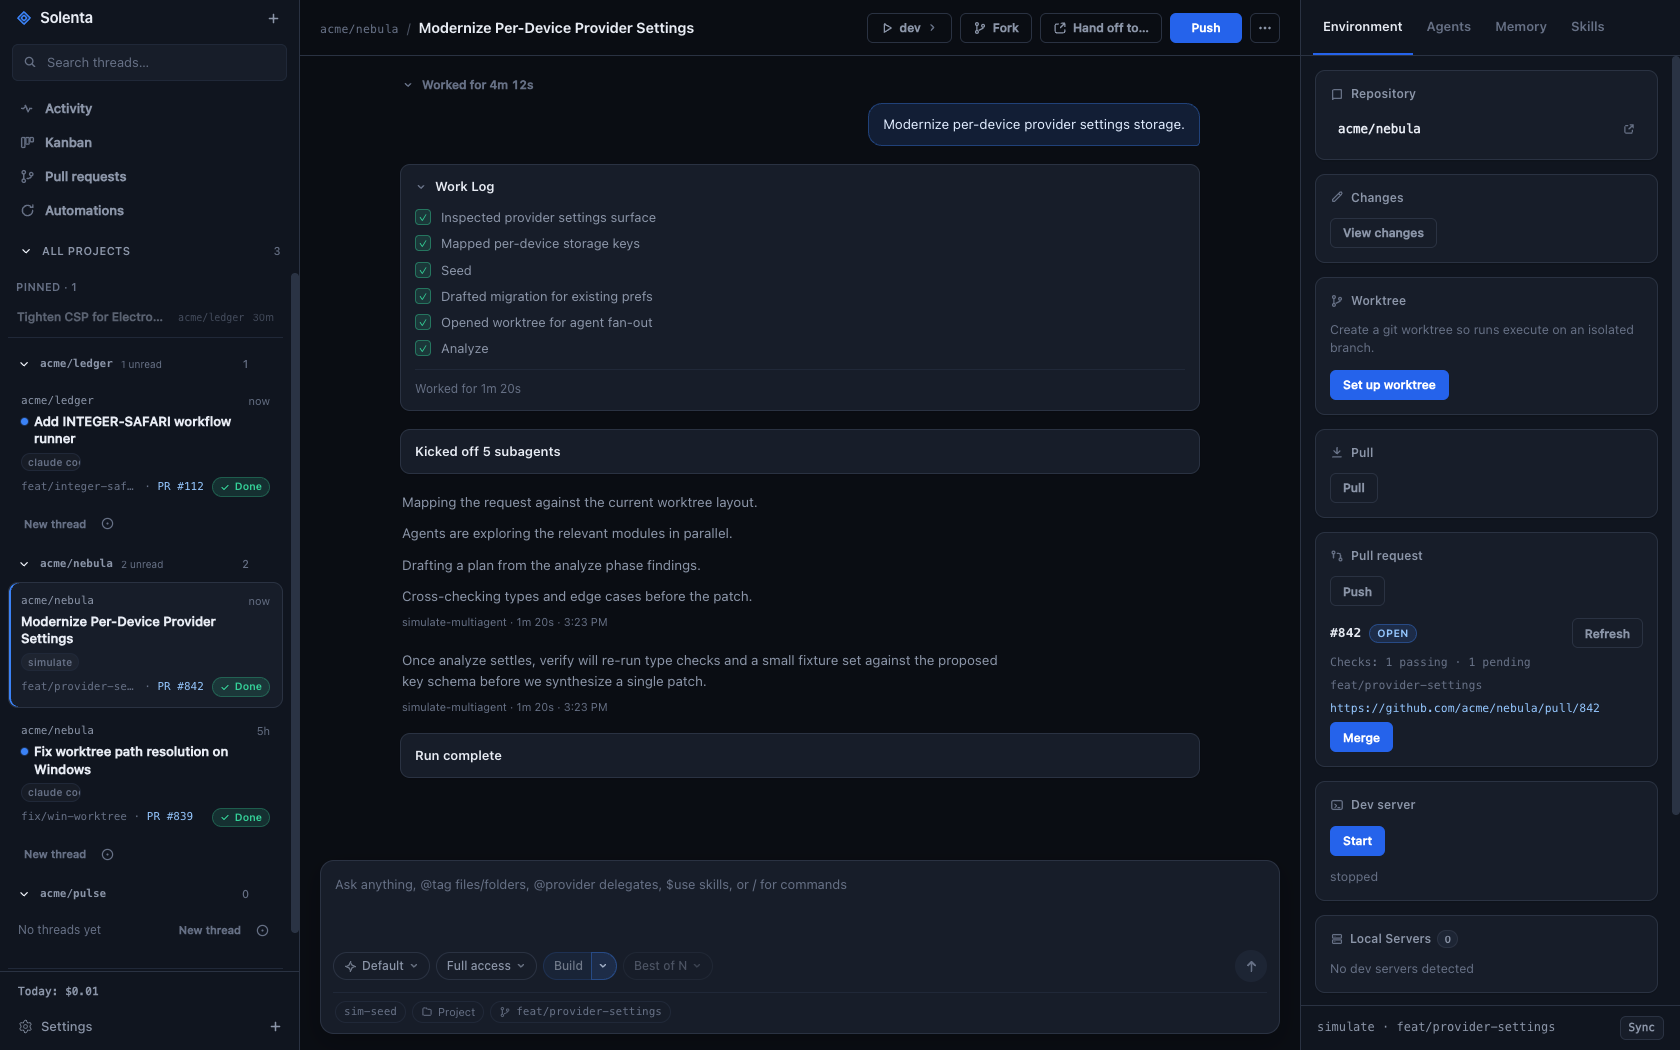
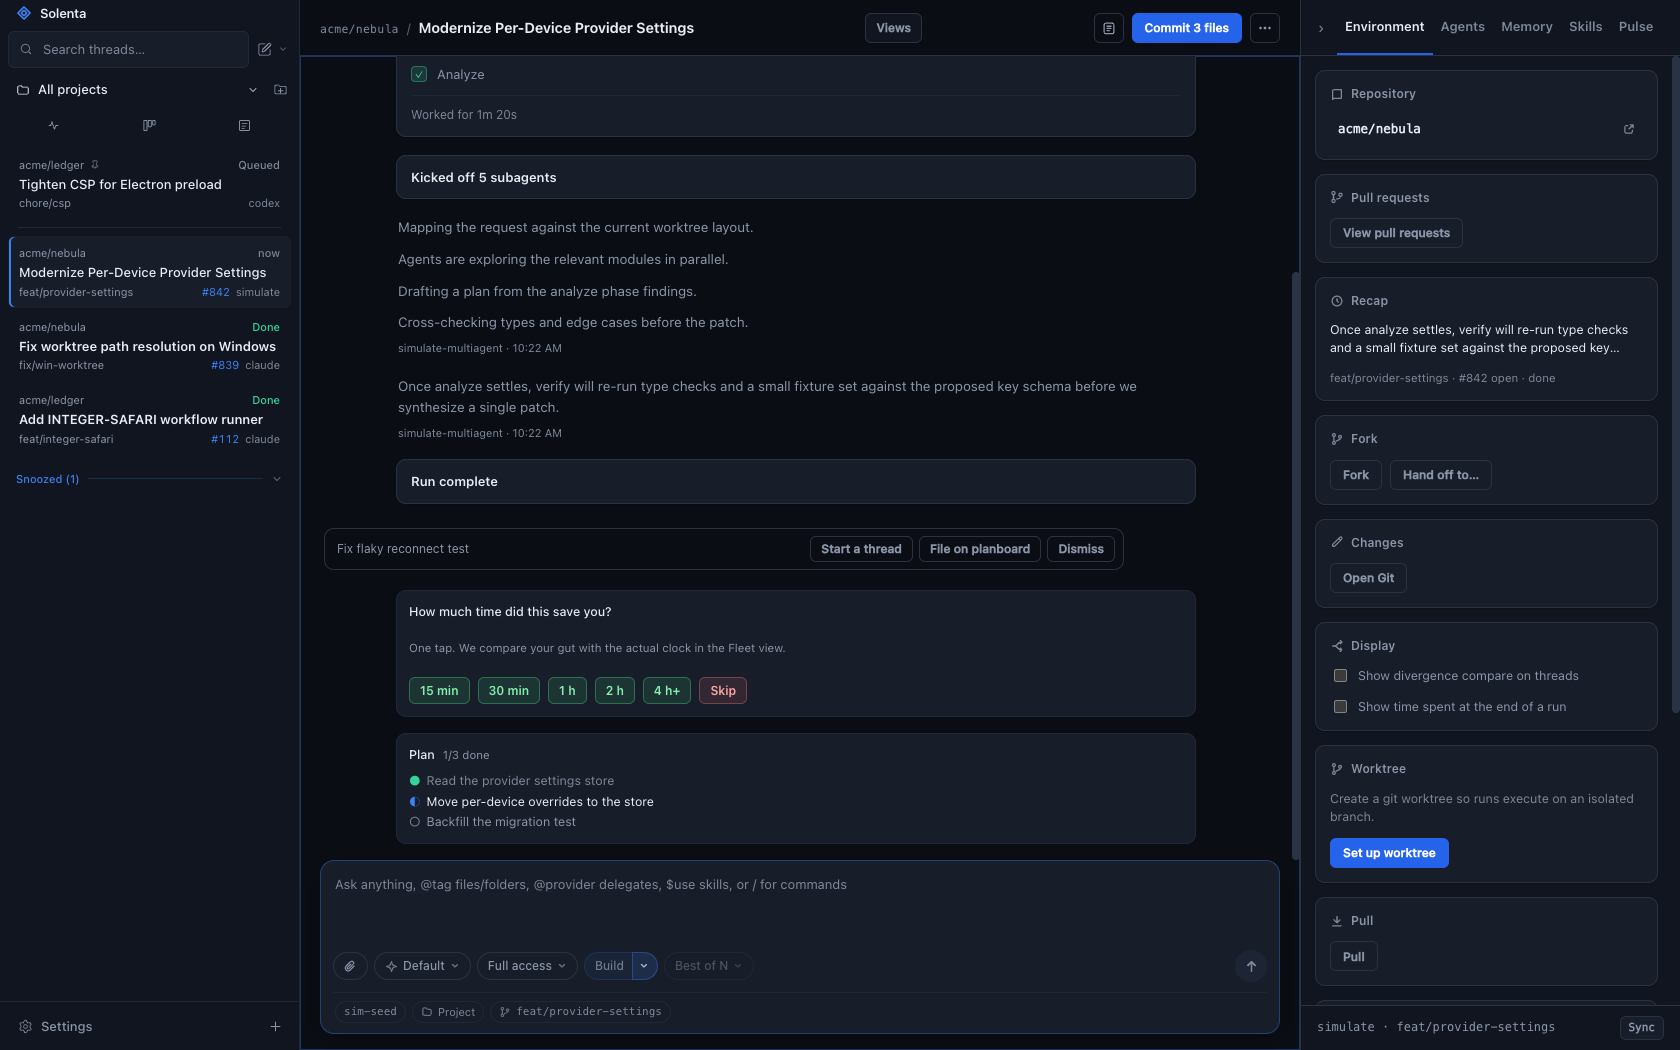
docs: refresh README screenshots and add memory/git shots
Re-shoot the hero against the current UI and add two more images: the
Memory tab and Git as a center pane. Note the first-run setup wizard in
Also in the box.

The browser fixtures scoped their seeded memory rows to a "coder" project
that no longer exists in the demo data, so the Memory tab rendered empty in
dev:browser (and in any shot taken from it). Rows now carry the demo project
paths the tab actually sends.

diff --git a/src/devCoder.ts b/src/devCoder.ts
@@ -146,15 +146,20 @@ function toFullEntry(row: MemoryRow): MemoryEntryInfo {
   };
 }
 
+// Memory rows are scoped by the project PATH the Memory tab sends, so the demo
+// entries have to carry the demo project paths, not slugs.
+const DEMO_NEBULA = "/Users/demo/acme/nebula";
+const DEMO_LEDGER = "/Users/demo/acme/ledger";
+
 function seedMemoryEntries(t0: number): MemoryRow[] {
   const hours = (h: number) => toIso(t0 - h * 60 * 60 * 1000);
   return [
     {
       id: "mem-seed-1",
-      type: "convention",
-      title: "Never use em dashes in UI copy",
-      body: "Global preference: do not use em dashes in user-facing strings. Prefer periods, commas, colons, parentheses, or a plain hyphen.",
-      project: null,
+      type: "strategy",
+      title: "Rewriting auth was ruled out. Cookie sessions stay",
+      body: "Thread 1 costed a move to token auth and dropped it. Refresh lives in src/lib/auth.ts and the 401 retry in src/lib/api.ts. Do not re-open the rewrite without new evidence.",
+      project: DEMO_NEBULA,
       importance: 5,
       createdAt: hours(48),
       updatedAt: hours(6),
@@ -162,62 +167,62 @@ function seedMemoryEntries(t0: number): MemoryRow[] {
     {
       id: "mem-seed-2",
       type: "knowledge",
-      title: "Worktree dirty reject marker",
-      body: "Git removeWorktree rejections that list dirty paths are prefixed with WORKTREE_DIRTY: so the Git tab can strip Electron invoke wrappers and show only the file list.",
-      project: "coder",
+      title: "Per-device overrides read from the settings store, not the env",
+      body: "src/settings/store.ts is the single source for per-device overrides. The env reader was a migration shim and is gone. Anything reading process.env for a device key is stale.",
+      project: DEMO_NEBULA,
       importance: 4,
       createdAt: hours(36),
       updatedAt: hours(12),
     },
     {
       id: "mem-seed-3",
-      type: "task",
-      title: "Add Memory tab to renderer",
-      body: "Right panel third tab with search, recent list, expand-to-full get, and store form. Dev stub always running.",
-      project: "coder",
-      importance: 3,
-      createdAt: hours(4),
-      updatedAt: hours(1),
-    },
-    {
-      id: "mem-seed-4",
       type: "knowledge",
-      title: "Session usage only after first turn",
-      body: "ThreadDetail.usage stays null until the provider reports tokens. Session card shows \"No usage yet\" in that state.",
-      project: "acme/nebula",
-      importance: 3,
+      title: "Windows worktree paths need the UNC form",
+      body: "A WSL path handed to git on the Windows side resolves relative to the wrong root. Convert to \\\\wsl$\\ before spawning. Found while fixing #839.",
+      project: DEMO_NEBULA,
+      importance: 4,
       createdAt: hours(72),
       updatedAt: hours(24),
     },
     {
-      id: "mem-seed-5",
-      type: "run",
-      title: "Simulate workflow mid-run seed",
-      body: "The active simulate thread boots with a half-settled workflow so Agents tab demos live phase chips without starting a run.",
-      project: "coder",
-      importance: 1,
-      createdAt: hours(10),
-      updatedAt: hours(8),
-    },
-    {
-      id: "mem-seed-6",
+      id: "mem-seed-4",
       type: "convention",
-      title: "selectedRef guard after await",
-      body: "Any useCoder action that applies results to state after an await must check selectedRef.current still matches the thread id captured before the call.",
+      title: "Every state write after an await re-checks the thread id",
+      body: "Applying a result to state after an await must confirm the selected thread still matches the id captured before the call, or a slow response lands in the wrong thread.",
       project: null,
       importance: 5,
       createdAt: hours(20),
       updatedAt: hours(2),
     },
     {
-      id: "mem-seed-7",
+      id: "mem-seed-5",
       type: "strategy",
-      title: "When a worktree merge is dirty, stash by path then retry",
-      body: "When merging a worktree into a dirty main checkout, do not commit the WIP. Stash by path, merge, then stash pop. Untracked files also trip the dirty guard.",
-      project: "coder",
+      title: "Dirty merge: stash by path, merge, pop",
+      body: "When merging a worktree into a dirty checkout, do not commit the WIP. Stash by path, merge, then pop. Untracked files trip the dirty guard too.",
+      project: null,
       importance: 4,
       createdAt: hours(8),
       updatedAt: hours(3),
+    },
+    {
+      id: "mem-seed-6",
+      type: "knowledge",
+      title: "The CSP change belongs in the preload, not the page",
+      body: "Meta-tag CSP is ignored once the response header is set. Ship the policy from the main process response header and keep the preload surface typed.",
+      project: DEMO_LEDGER,
+      importance: 3,
+      createdAt: hours(10),
+      updatedAt: hours(8),
+    },
+    {
+      id: "mem-seed-7",
+      type: "task",
+      title: "Backfill the migration test before the schema lands",
+      body: "The key-schema patch needs a fixture that runs the old rows through the migration. Blocked until the store move in #842 merges.",
+      project: DEMO_NEBULA,
+      importance: 3,
+      createdAt: hours(4),
+      updatedAt: hours(1),
     },
   ];
 }

diff --git a/README.md b/README.md
@@ -26,7 +26,7 @@
 </p>
 
 <p align="center">
-  <img src="assets/screenshot.png" alt="Solenta: threads sidebar, conversation with work log, and the environment panel" width="100%" />
+  <img src="assets/screenshot.png" alt="Solenta: threads sidebar, a thread with its work log and plan, and the environment panel" width="100%" />
 </p>
 
 ## The problem
@@ -70,6 +70,10 @@ Grok · thread 6
 - **Per-repo code index** — a symbol index built once and injected into every
   dispatched prompt, so a fresh worker starts knowing where things live.
 
+<p align="center">
+  <img src="assets/screenshot-memory.png" alt="The Memory tab: shared entries scoped to the project, typed as strategy, knowledge, convention or task, with the config doctor above them" width="100%" />
+</p>
+
 ## The rest of the desk
 
 Memory is why Solenta exists. The rest is so you can run the agents that write
@@ -96,6 +100,10 @@ it.
   fix thread and reopens the planboard issue. Optional spend caps.
 - **You own it** — MIT, no Solenta account, no Solenta cloud, local SQLite,
   GitHub issues. The only network traffic is a release check.
+
+<p align="center">
+  <img src="assets/screenshot-git.png" alt="Git open as a center pane beside the thread: review itinerary, per-file diff, and a commit box" width="100%" />
+</p>
 
 ## Install
 
@@ -217,6 +225,9 @@ The root `package.json` already allows scripts for the pinned Electron version.
 
 ## Also in the box
 
+- **First run** — a setup wizard checks which agent CLIs are on your `PATH`
+  (with per-provider install hints), adds the first project, and sets the
+  defaults, then a short tour of the panes. Skippable, shown once.
 - **Teach mode** — hints, not solutions, across all five providers. Autonomy
   steps from Hints to Review to Pair as reviews pass.
 - **Ask mode** — read-only Q&A from the code map and memory. No tools, no
